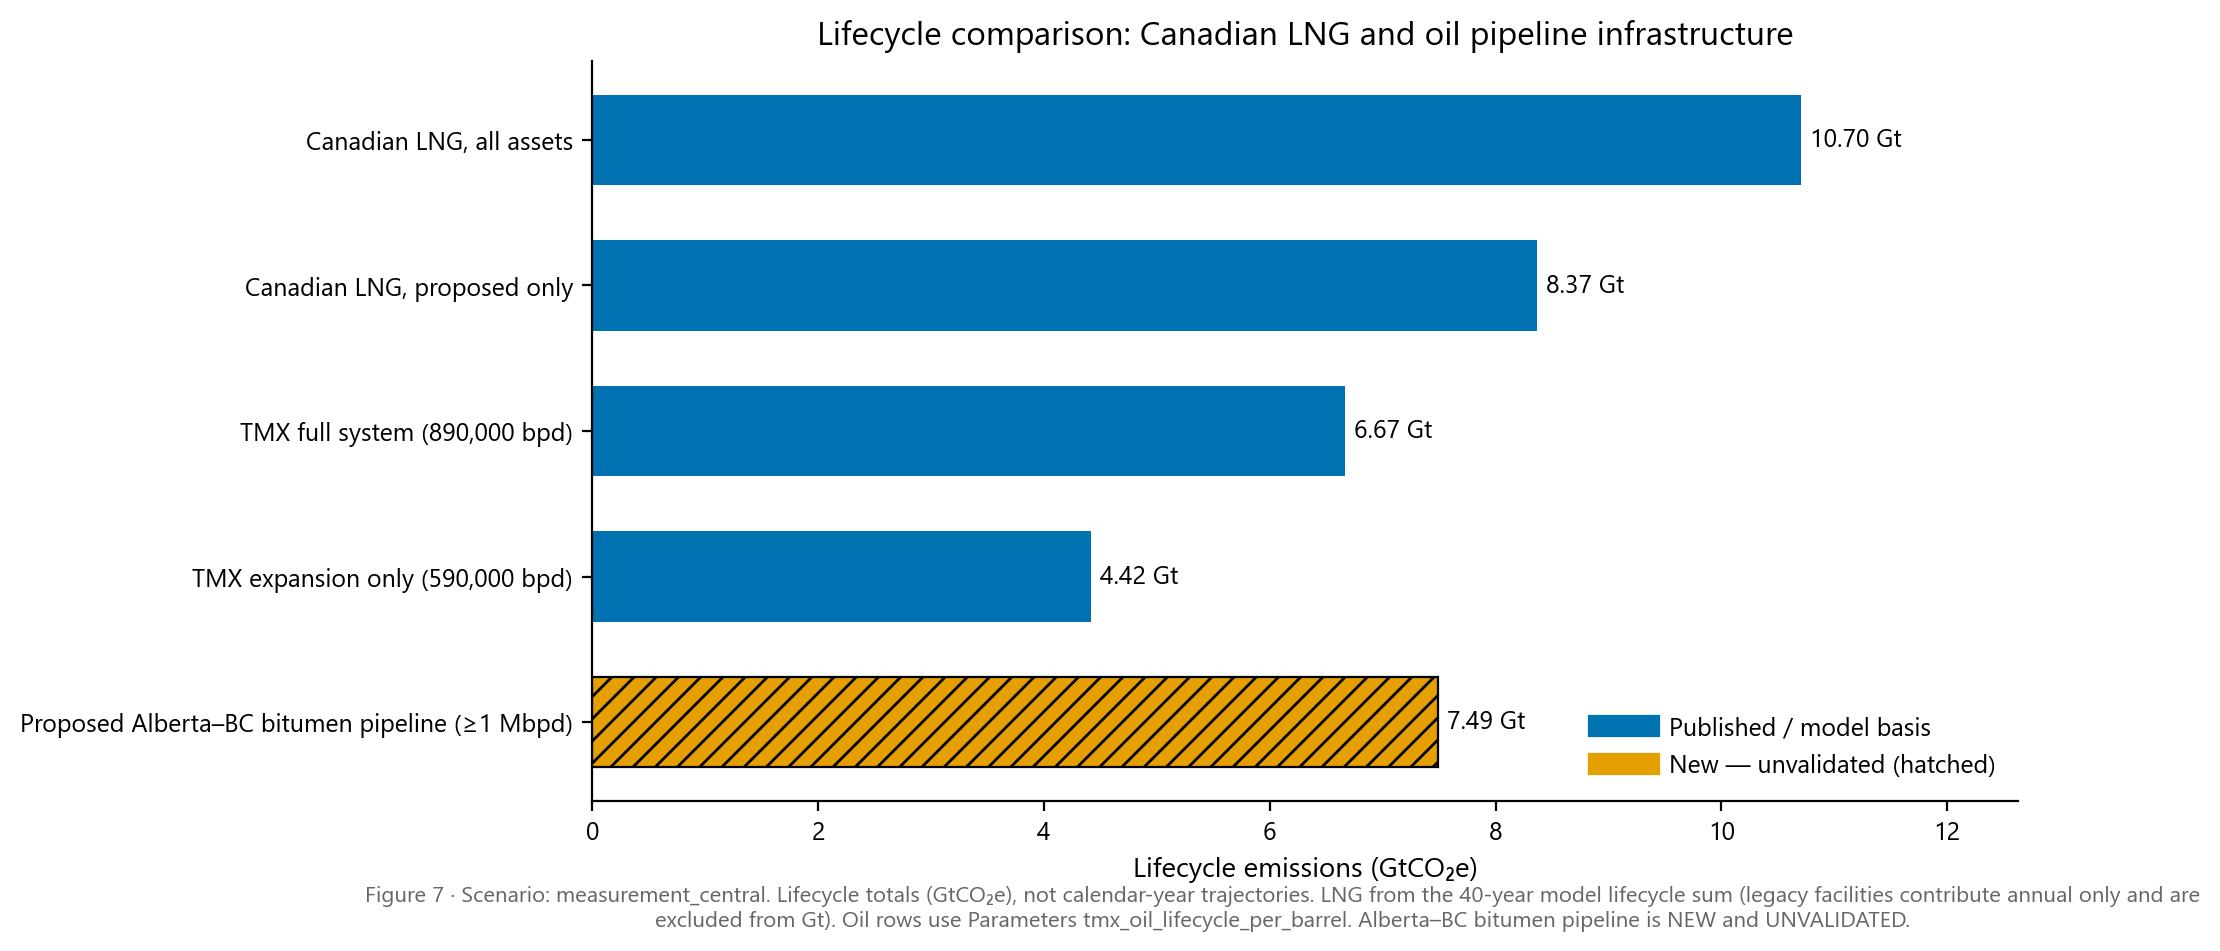
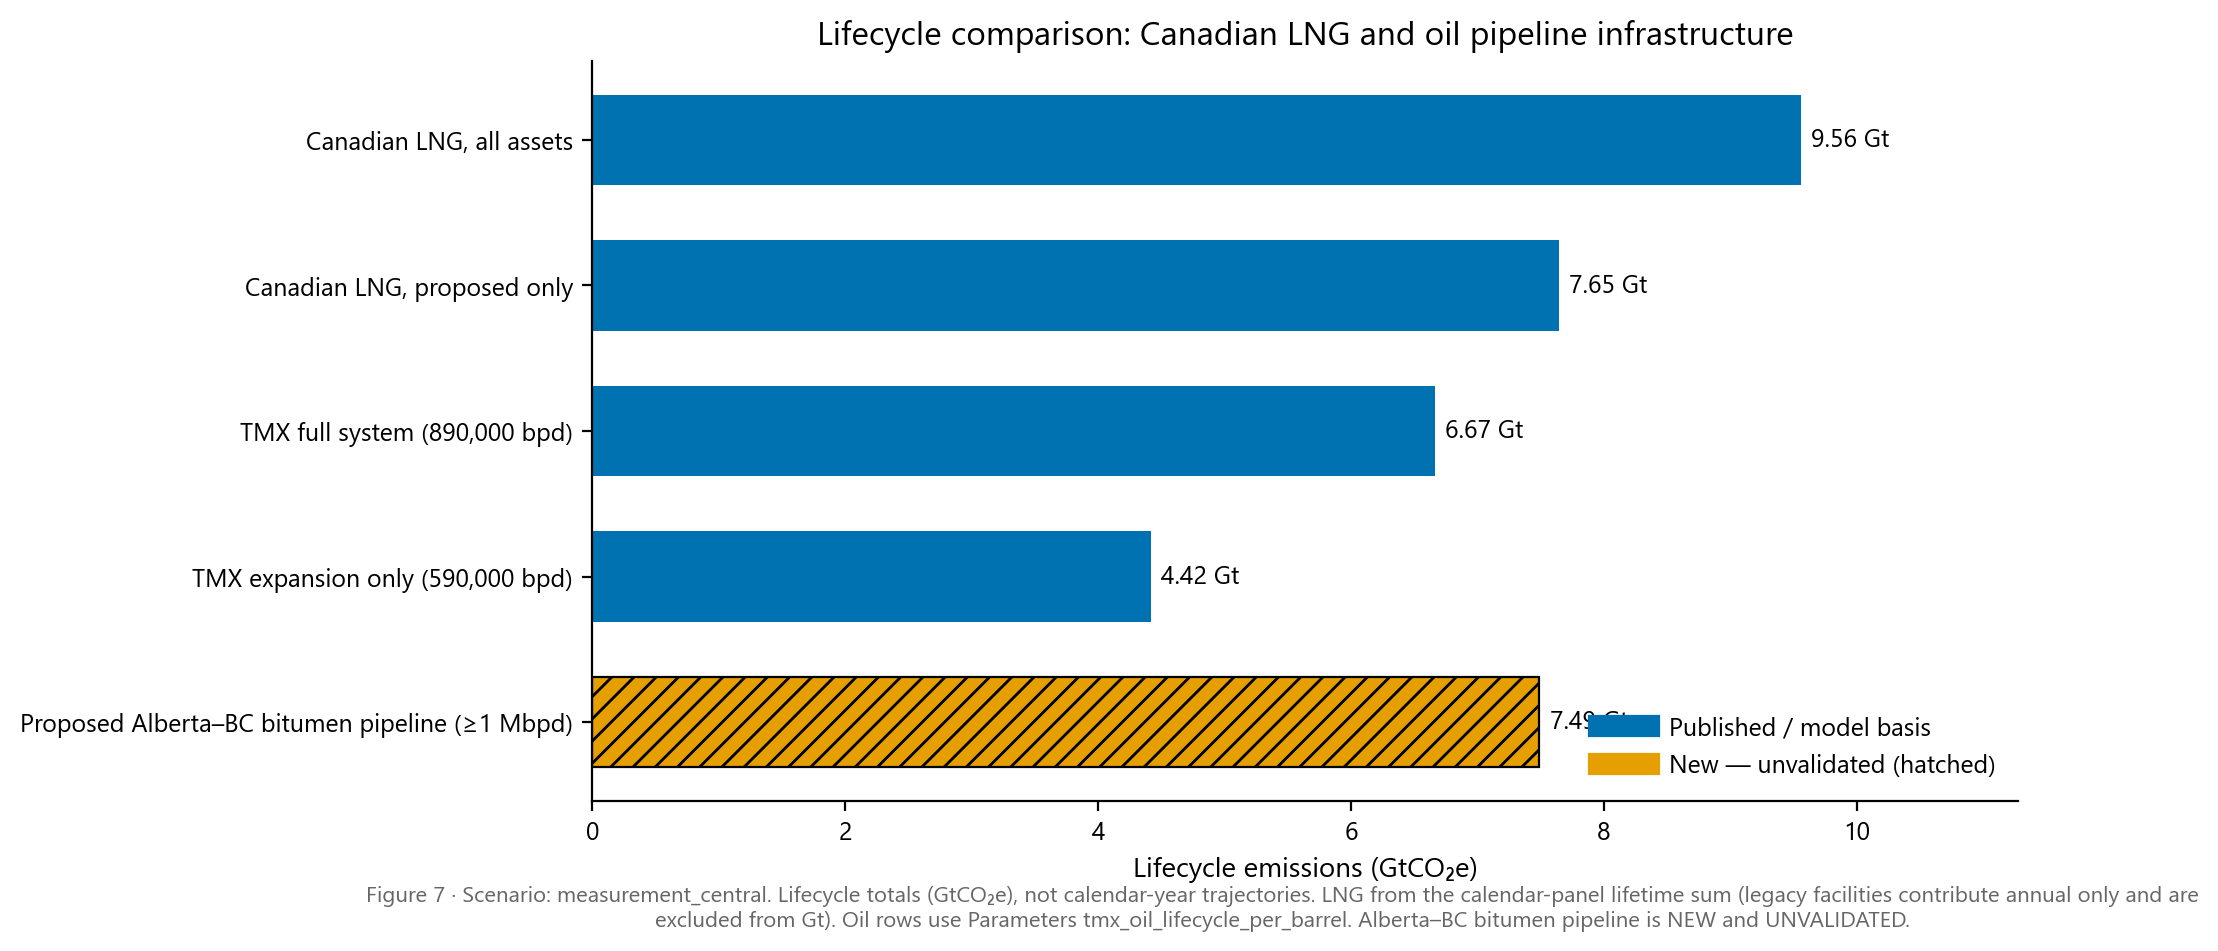
Task C: Label the central-case point estimate separately from the Monte Carlo median.

diff --git a/src/slide_tables.py b/src/slide_tables.py
@@ -42,6 +42,7 @@ def build_slide_tables(
     stages: pd.DataFrame,
     panel: pd.DataFrame,
     ld: dict | None = None,
+    mc: dict | None = None,
 ) -> dict[str, pd.DataFrame]:
     sample = by_project.loc[
         (~by_project["excluded_from_totals"]) & (by_project["scenario"] == DEFAULT_SCENARIO)
@@ -91,6 +92,7 @@ def build_slide_tables(
             ("18_Carbon_budget", "Lifetime CO2e vs GCB 2025 remaining CO2 budgets", "% of GtCO2"),
             ("19_LCA_comparison", "This model vs published LNG LCAs on aligned boundaries", "tCO2e/t"),
             ("19_LCA_excluded", "Named sources that are not LNG LCAs", "—"),
+            ("20_Central_vs_MC", "Central-case point estimate vs Monte Carlo median (full build-out)", "Mt and CAD bn"),
         ],
         columns=["sheet", "contents", "units"],
     )
@@ -109,7 +111,7 @@ def build_slide_tables(
                 "MtCO2e/yr",
                 "Life-average util over each asset window; not a calendar year",
             ),
-            ("Lifecycle emissions", _r1(lifecycle), "MtCO2e", "Sum of calendar panel; excludes legacy"),
+            ("Lifecycle emissions", _r1(lifecycle), "MtCO2e", "Central case: calendar-panel sum; excludes legacy. Not the Monte Carlo median."),
             ("Export capacity", _r1(export_cap), "mtpa", "Export chain only; liquefaction nameplate"),
             ("Canada territorial", _r1(can), "MtCO2e/yr", "Stages tagged CAN (life-average)"),
             ("International bunkers", _r1(bunk), "MtCO2e/yr", "UNFCCC bunkers, no country (life-average)"),
@@ -337,6 +339,51 @@ def build_slide_tables(
     ]
     tables["19_LCA_excluded"] = lca["excluded"]
 
+    if mc is not None and ld is not None:
+        summ = mc["summary"]
+
+        def _mc_row(metric: str) -> pd.Series:
+            return summ.loc[
+                (summ["build_out"] == "full") & (summ["metric"] == metric)
+            ].iloc[0]
+
+        h = ld["headline"].set_index("case")
+        damage = float(h.loc["published_central", "total_cad_billion"])
+        life = _mc_row("lifetime_mtco2e")
+        peak = _mc_row("peak_mtco2e_yr")
+        dmg = _mc_row("central_damage_cad_billion")
+        tables["20_Central_vs_MC"] = pd.DataFrame(
+            [
+                {
+                    "quantity": "Lifetime",
+                    "central_case": _r1(lifecycle),
+                    "mc_median": _r1(life["median"]),
+                    "mc_p05": _r1(life["p05"]),
+                    "mc_p95": _r1(life["p95"]),
+                    "unit": "MtCO2e",
+                    "note": "Central case is the point estimate from central factors.",
+                },
+                {
+                    "quantity": "Peak-year emissions",
+                    "central_case": _r1(peak_mt),
+                    "mc_median": _r1(peak["median"]),
+                    "mc_p05": _r1(peak["p05"]),
+                    "mc_p95": _r1(peak["p95"]),
+                    "unit": "MtCO2e/yr",
+                    "note": f"Central peak year {peak_year}.",
+                },
+                {
+                    "quantity": "ECCC 2% damage",
+                    "central_case": round(damage, 0),
+                    "mc_median": round(float(dmg["median"]), 0),
+                    "mc_p05": round(float(dmg["p05"]), 0),
+                    "mc_p95": round(float(dmg["p95"]), 0),
+                    "unit": "CAD bn 2025",
+                    "note": "Calendar-year ECCC 2%.",
+                },
+            ]
+        )
+
     gas = float(head["canada_territorial_gas_mtco2e_yr"])
     claimed = float(head["canada_territorial_claimed_electric_mtco2e_yr"])
     alle = float(head["canada_territorial_all_electric_mtco2e_yr"])
@@ -511,6 +558,13 @@ def build_slide_tables(
             (
                 "send_this_file",
                 "Outputs/SLIDE_TABLES.xlsx — one table per sheet, for the PPT Claude chat.",
+            ),
+            (
+                "central_vs_mc",
+                "Central case (sheet 01, 20) is the point estimate from central factor values. "
+                "Monte Carlo median (sheet 20) is higher because the stage triangles are "
+                "right-skewed (shipping 0.05/0.12/0.31). They are different quantities. "
+                "Which is the paper headline is not chosen here.",
             ),
         ],
         columns=["item", "value"],

diff --git a/src/monte_carlo.py b/src/monte_carlo.py
@@ -517,7 +517,7 @@ def run_monte_carlo(
     }
 
 
-def format_mc_markdown(mc: dict) -> list[str]:
+def format_mc_markdown(mc: dict, published: dict | None = None) -> list[str]:
     lines = []
     lines.append("## Monte Carlo (physics sampled, ECCC 2% applied after)")
     lines.append("")
@@ -561,4 +561,40 @@ def format_mc_markdown(mc: dict) -> list[str]:
             f"{r.central_damage_cad_billion:.0f} |"
         )
     lines.append("")
+    if published is not None:
+        def _full(metric: str) -> pd.Series:
+            return summ.loc[
+                (summ["build_out"] == "full") & (summ["metric"] == metric)
+            ].iloc[0]
+
+        life = _full("lifetime_mtco2e")
+        peak = _full("peak_mtco2e_yr")
+        dmg = _full("central_damage_cad_billion")
+        lines.append("Central case versus Monte Carlo median (full build-out):")
+        lines.append("")
+        lines.append("| quantity | central case | Monte Carlo median [p5, p95] |")
+        lines.append("|---|---|---|")
+        lines.append(
+            f"| Lifetime (Mt) | {published['lifetime_mt']:.1f} | "
+            f"{life['median']:.1f} [{life['p05']:.1f}, {life['p95']:.1f}] |"
+        )
+        lines.append(
+            f"| Peak-year (Mt) | {published['peak_mt']:.1f} in {int(published['peak_year'])} | "
+            f"{peak['median']:.1f} [{peak['p05']:.1f}, {peak['p95']:.1f}] |"
+        )
+        lines.append(
+            f"| ECCC 2% damage (CAD bn) | {published['damage_cad_bn']:.0f} | "
+            f"{dmg['median']:.0f} [{dmg['p05']:.0f}, {dmg['p95']:.0f}] |"
+        )
+        lines.append("")
+        lines.append(
+            "They differ because the stage triangles are right-skewed "
+            "(shipping 0.05 / 0.12 / 0.31 especially): the Monte Carlo median is "
+            "not the point estimate from central factor values."
+        )
+        lines.append("")
+        lines.append(
+            "Which of the two should be the paper's headline number is not chosen here."
+        )
+        lines.append("")
     return lines

diff --git a/build_results.py b/build_results.py
@@ -630,7 +630,16 @@ def write_review_summary(
     if placeholder_sens is not None:
         lines.extend(format_placeholder_markdown(placeholder_sens))
     if mc is not None:
-        lines.extend(format_mc_markdown(mc))
+        published_vs_mc = None
+        if ld is not None:
+            h = ld["headline"].set_index("case")
+            published_vs_mc = {
+                "lifetime_mt": lifecycle,
+                "peak_year": peak_year,
+                "peak_mt": peak_mt,
+                "damage_cad_bn": float(h.loc["published_central", "total_cad_billion"]),
+            }
+        lines.extend(format_mc_markdown(mc, published=published_vs_mc))
     if lca is not None:
         lines.extend(format_lca_markdown(lca["tables"]))
 
@@ -1179,7 +1188,7 @@ def main() -> None:
     mc["draws"].to_csv(FIGURE_DATA / "mc_draws.csv", index=False)
     panel.to_csv(FIGURE_DATA / "emissions_panel.csv", index=False)
     slide_tables = build_slide_tables(
-        inputs, by_project, summary, by_chain, stages, panel, ld=ld
+        inputs, by_project, summary, by_chain, stages, panel, ld=ld, mc=mc
     )
     write_slide_tables_xlsx(slide_tables, SLIDE_TABLES, FIGURE_DATA)
 

diff --git a/Outputs/RESULTS_SUMMARY.md b/Outputs/RESULTS_SUMMARY.md
@@ -1,6 +1,6 @@
 # Canada LNG lifecycle emissions — review summary
 
-Default scenario: `measurement_central`. Run at 2026-08-28 13:49 UTC. Numbers to one decimal. Inputs read-only. `calc_group` from `Asset Register:calc_group`.
+Default scenario: `measurement_central`. Run at 2026-08-28 15:48 UTC. Numbers to one decimal. Inputs read-only. `calc_group` from `Asset Register:calc_group`.
 
 Deck-facing tables (one sheet per table, 1-decimal): `Outputs/SLIDE_TABLES.xlsx`. Send that workbook to the PPT chat.
 
@@ -217,7 +217,7 @@ Placeholder-start assets account for **5646.9 MtCO2e** (59.1% of the 9558.2 Mt l
 
 ## Monte Carlo (physics sampled, ECCC 2% applied after)
 
-10,000 draws, seed `20260828`. Physics 0.19s; pricing 0.02s. Kernel vs published panel max abs 5.7e-14 Mt. Liquefaction held at 0.29. Howarth 0.55 is a named point, not a draw.
+10,000 draws, seed `20260828`. Physics 0.18s; pricing 0.03s. Kernel vs published panel max abs 5.7e-14 Mt. Liquefaction held at 0.29. Howarth 0.55 is a named point, not a draw.
 
 | build-out | lifetime median [p5, p95] Mt | peak-year median [p5, p95] Mt | ECCC 2% damage median [p5, p95] CAD bn |
 |---|---|---|---|
@@ -232,6 +232,18 @@ Howarth 0.55 (other stages central, not inside the interval):
 | committed | 2072.2 | 2030 / 64.8 | 848 |
 | committed_plus_advanced | 4390.6 | 2037 / 158.5 | 1861 |
 | full | 10365.8 | 2037 / 335.2 | 4628 |
+
+Central case versus Monte Carlo median (full build-out):
+
+| quantity | central case | Monte Carlo median [p5, p95] |
+|---|---|---|
+| Lifetime (Mt) | 9558.2 | 9721.1 [8509.6, 11026.1] |
+| Peak-year (Mt) | 309.1 in 2037 | 314.6 [297.6, 332.3] |
+| ECCC 2% damage (CAD bn) | 4267 | 4340 [3715, 5034] |
+
+They differ because the stage triangles are right-skewed (shipping 0.05 / 0.12 / 0.31 especially): the Monte Carlo median is not the point estimate from central factor values.
+
+Which of the two should be the paper's headline number is not chosen here.
 
 ## Lifecycle intensity comparison
 
